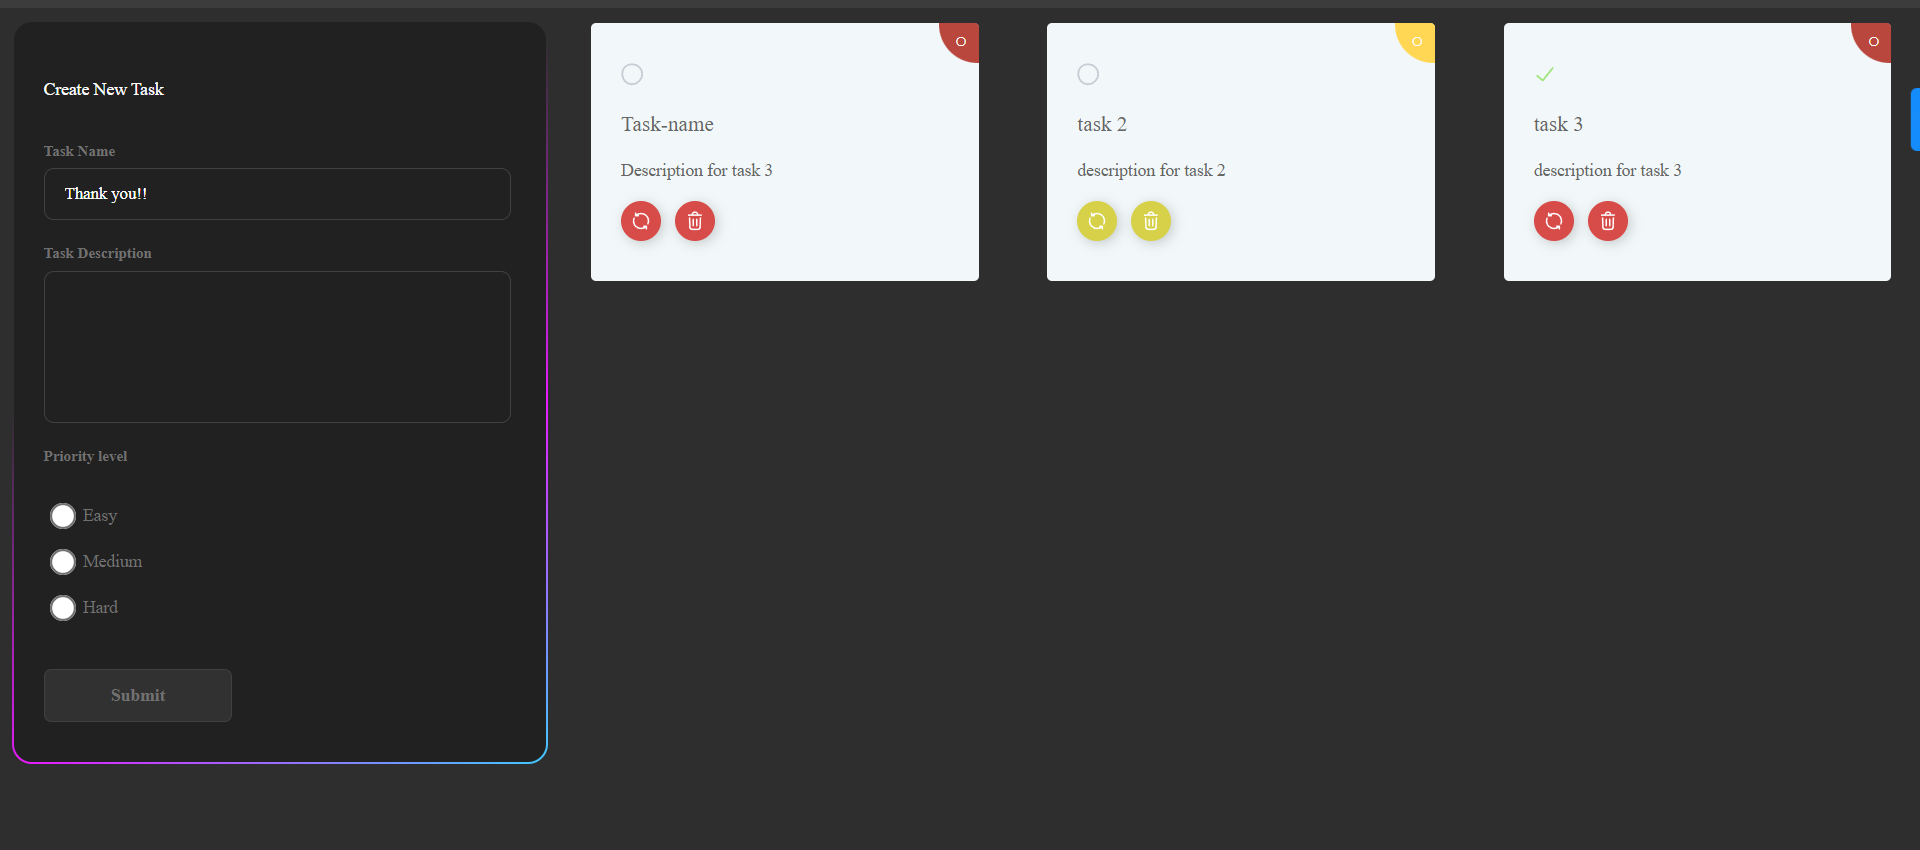
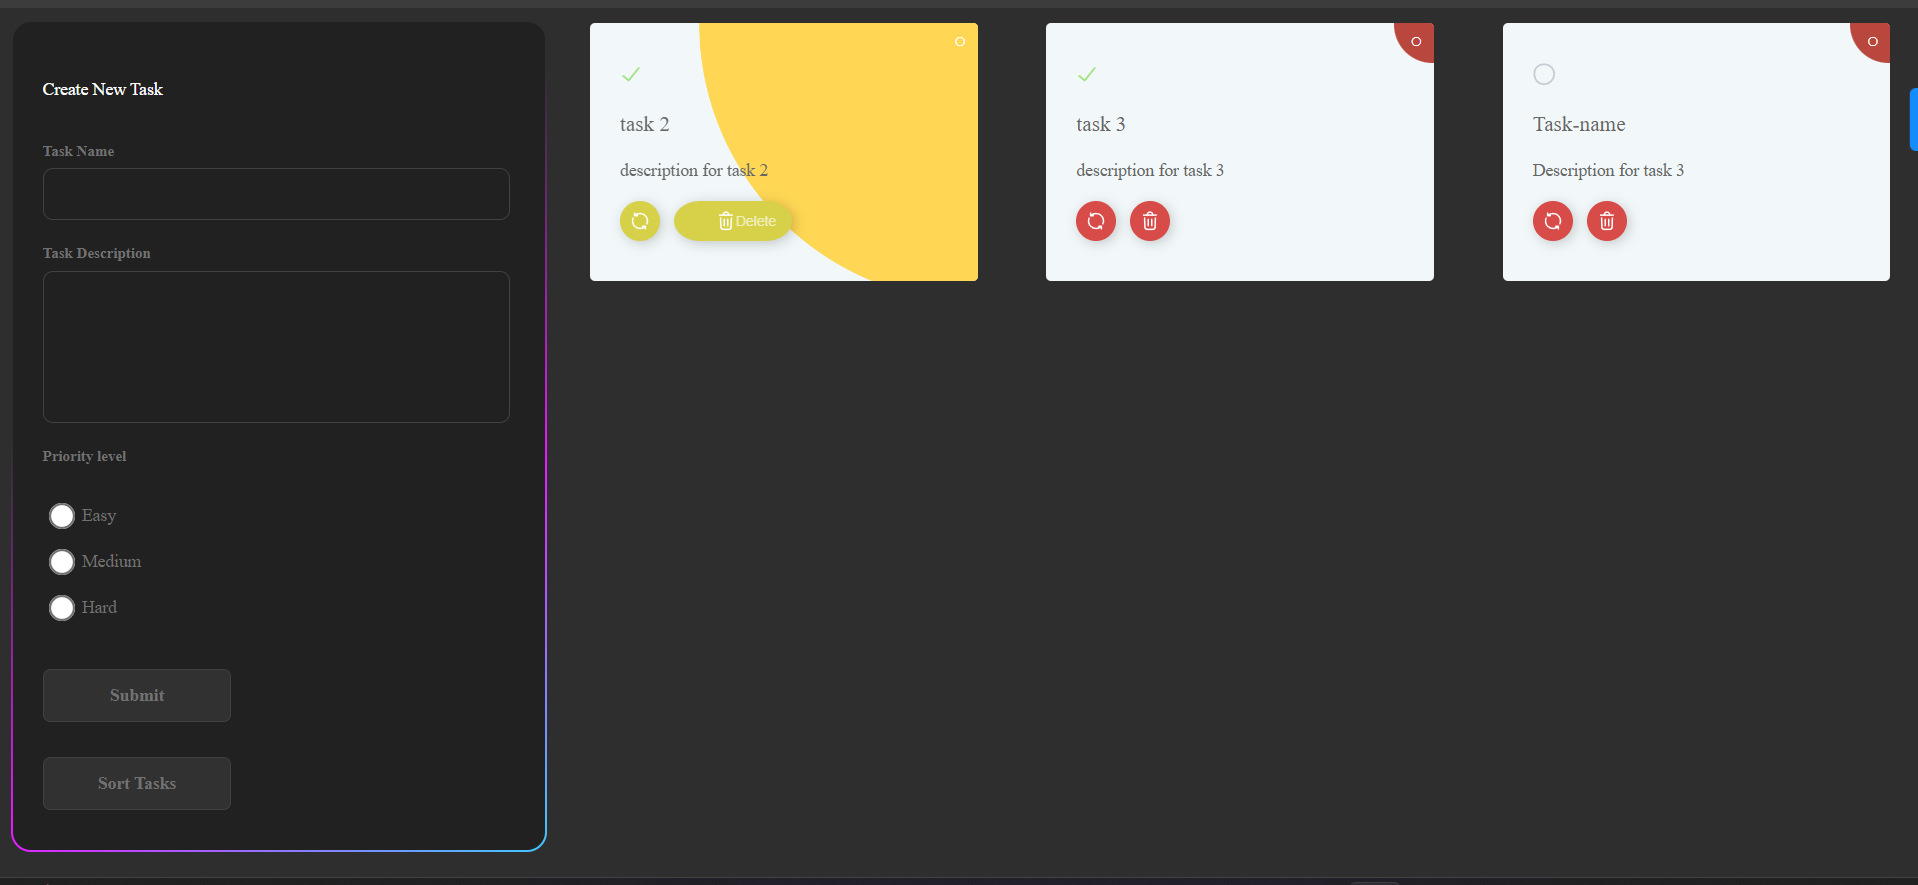
sort add

diff --git a/src/App.js b/src/App.js
@@ -14,7 +14,7 @@ function App() {
   }, [tasks]);
 
   const addTask = (task) => {
-    setTasks([...tasks, task]); // Append new task to the tasks array
+    setTasks([...tasks, task]);
   };
 
   const updateTask = (index, updatedTask) => {
@@ -25,14 +25,35 @@ function App() {
 
   const deleteTask = (index) => {
     const updatedTasks = [...tasks];
-    updatedTasks.splice(index, 1); // Remove the task at the specified index
-    setTasks(updatedTasks); // Update the state with the new array
+    updatedTasks.splice(index, 1);
+    setTasks(updatedTasks);
+  };
+
+  const sortTasks = () => {
+    const sortedTasks = [...tasks].sort((task1, task2) => {
+      // Compare completed status
+      if (task1.isCompleted !== task2.isCompleted) {
+        return task1.isCompleted === "true" ? -1 : 1; // Completed tasks first
+      }
+  
+      // Compare task levels
+      const levelOrder = { "Easy": 1, "Medium": 2, "Hard": 3 };
+      const levelComparison = levelOrder[task1.level] - levelOrder[task2.level];
+      if (levelComparison !== 0) {
+        return levelComparison; // Sort by level priority
+      }
+  
+      // If both tasks have the same completed status and level, maintain their original order
+      return 0;
+    });
+  
+    setTasks(sortedTasks);
   };
   return (
     <div className="App">
       <div className="main-body">
         <div className="left">
-          <TaskForm addTask={addTask} />
+          <TaskForm addTask={addTask} sortTasks={sortTasks}/>
         </div>
         <div className="right">
           {tasks.map((task, index) => (

diff --git a/src/components/TaskForm.js b/src/components/TaskForm.js
@@ -1,7 +1,7 @@
 import React, { useState } from "react";
 import "./TaskForm.css";
 
-const TaskForm = ({ addTask }) => {
+const TaskForm = ({ addTask, sortTasks }) => {
   const [level, setLevel] = useState("Easy");
 
   const submitHandler = (event) => {
@@ -63,6 +63,10 @@ const TaskForm = ({ addTask }) => {
           <button className="form-submit-btn" type="submit">
             Submit
           </button>
+
+          <button className="form-submit-btn" onClick={()=>{
+            sortTasks();
+          }}>Sort Tasks</button>
         </form>
       </div>
     </div>

diff --git a/src/App.css b/src/App.css
@@ -22,6 +22,6 @@ body{
   padding: 0;
 
   display: grid;
-  grid-template-columns: repeat(3, 1fr); /* Adjust width as needed */
+  grid-template-columns: repeat(auto-fill, minmax(300px, 1fr)); /* Adjust width as needed */
   gap: 20px; /* Adjust gap between cards */
 }
